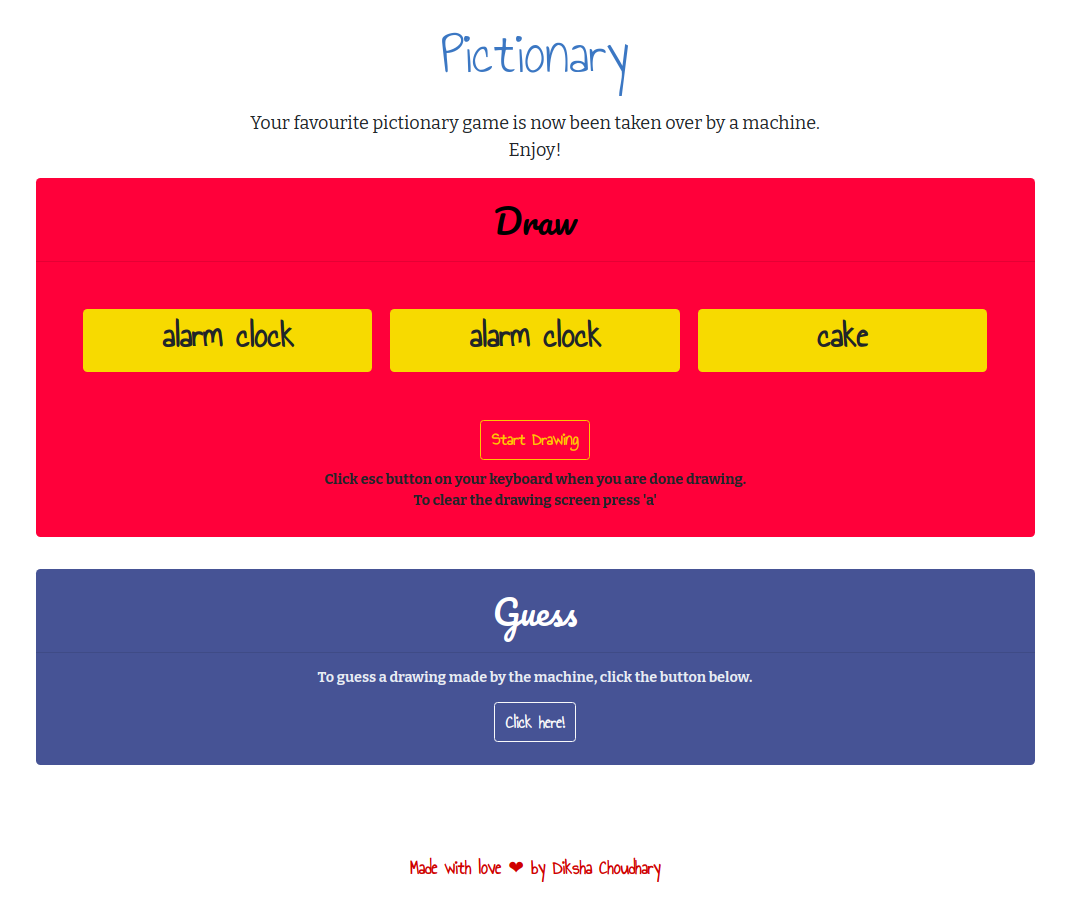
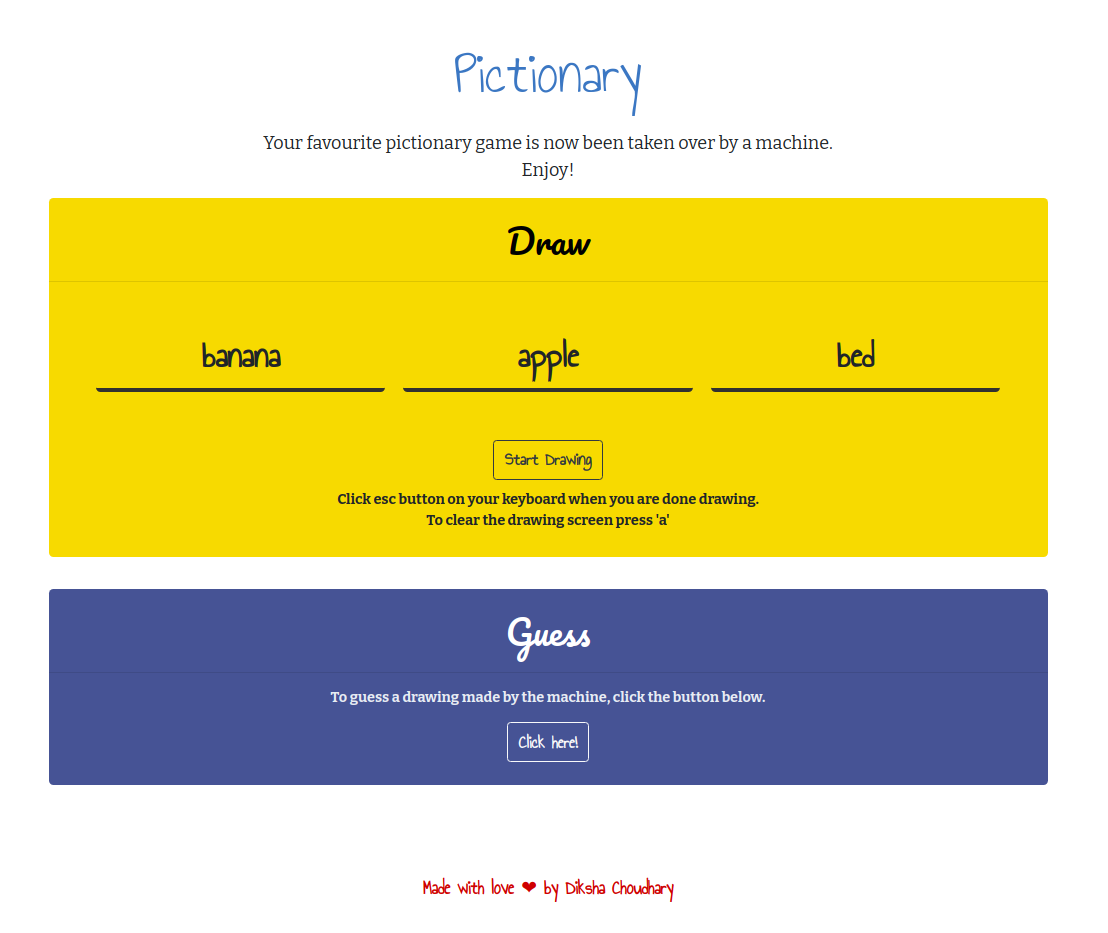
Minor UI changes

diff --git a/templates/index.html b/templates/index.html
@@ -20,22 +20,22 @@
     </div>
     <div class="container">
         <div>
-            <section style="background-color: #f93943;border-radius: 5px;padding-bottom: 13px;padding-top: 19px;">
+            <section style="background-color: rgb(246, 207, 33);border-radius: 5px;padding-bottom: 13px;padding-top: 19px;">
                 <p class="text-center" style="font-family: 'Pacifico', cursive; font-size: 38px;color: black;">Draw</p>
                 <hr>
                 <div>
                     <div class="row" style="margin: 43px;">
-                        <div class="col" style=" background-color: rgb(246, 207, 33); height: 70px;margin: 10px;border-radius: 5px;">
+                        <div class="col" style=" background-color: rgb(246, 207, 33); height: 70px;margin: 10px;border-radius: 5px; border-bottom: 5px solid rgb(49, 48, 48);">
                             <div style="height: 70px;vertical-align: middle;">
                                 <p class="text-center" style="font-family: 'Annie Use Your Telescope', cursive;font-size: 40px;"><strong>{{u}}</strong></p>
                             </div>
                         </div>
-                        <div class="col" style=" background-color: rgb(246, 207, 33); height: 70px;margin: 10px;border-radius: 5px;">
+                        <div class="col" style=" background-color: rgb(246, 207, 33); height: 70px;margin: 10px;border-radius: 5px; border-bottom: 5px solid rgb(49, 48, 48);">
                             <div style="height: 70px;vertical-align: middle;">
                                 <p class="text-center" style="font-family: 'Annie Use Your Telescope', cursive;font-size: 40px;"><strong>{{v}}</strong></p>
                             </div>
                         </div>
-                        <div class="col" style=" background-color: rgb(246, 207, 33); height: 70px;margin: 10px;border-radius: 5px;">
+                        <div class="col" style=" background-color: rgb(246, 207, 33); height: 70px;margin: 10px;border-radius: 5px; border-bottom: 5px solid rgb(49, 48, 48);">
                             <div style="height: 70px;vertical-align: middle;">
                                 <p class="text-center" style="font-family: 'Annie Use Your Telescope', cursive;font-size: 40px;"><strong>{{w}}</strong></p>
                             </div>
@@ -43,7 +43,7 @@
                     </div>
                 </div>
                 <div class="text-center">
-                    <form method="post" action="http://localhost:5000/"><input class="form-control" type="hidden" name="pict" value="draw"><button class="btn btn-outline-warning" type="submit" style="font-family: 'Annie Use Your Telescope', cursive;  font-size: 20px;"><strong>Start Drawing</strong></button></form>
+                    <form method="post" action="http://localhost:5000/"><input class="form-control" type="hidden" name="pict" value="draw"><button class="btn btn-outline-dark" type="submit" style="font-family: 'Annie Use Your Telescope', cursive;  font-size: 20px;"><strong>Start Drawing</strong></button></form>
                     <p class="text-center"
                         style="font-family: Bitter, serif;margin-top: 10px;"><strong>Click esc button on your keyboard when you are done drawing.<br>To clear the drawing screen press 'a'</strong></p>
                     <p class="text-center" style="font-family: 'Alfa Slab One', cursive;color: #dc3545;font-size: 40px;">{{t}}</p>
